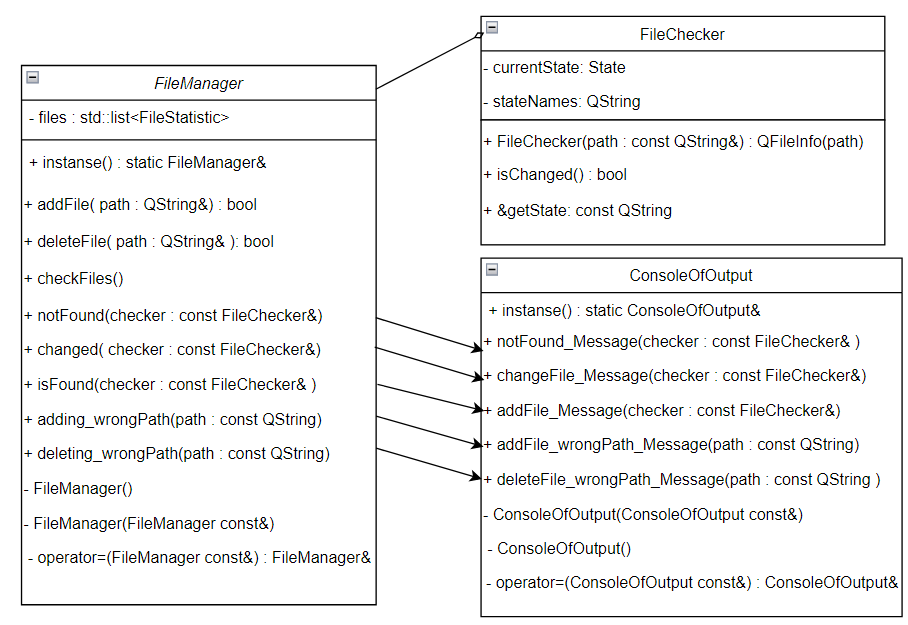
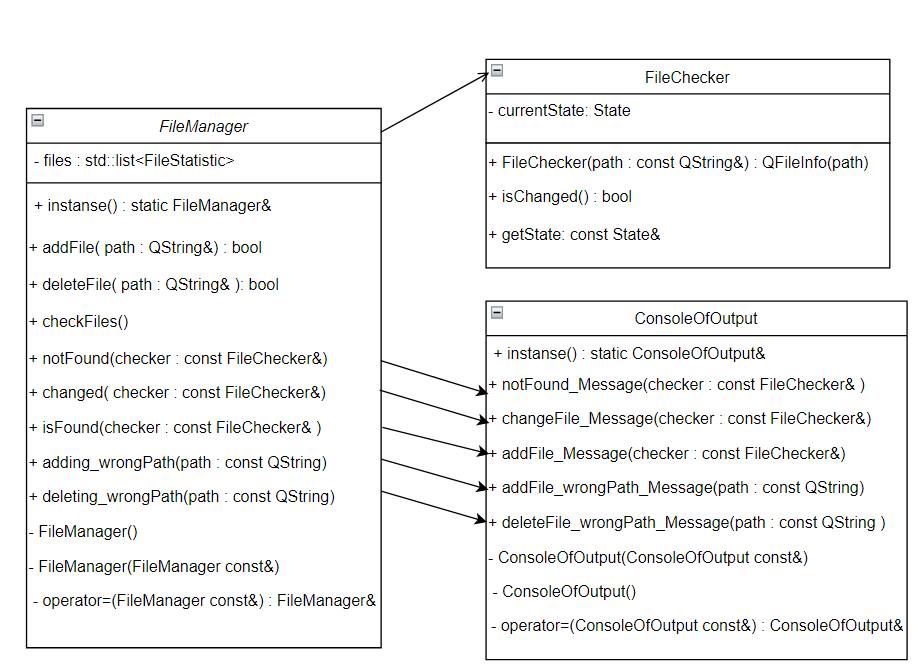
Enum state now public, update UML diagram

Changed region(s): [[0.0, 0.0, 1.0, 1.0]]

diff --git a/FileManager/filemanager.cpp b/FileManager/filemanager.cpp
@@ -2,6 +2,8 @@
 #include <QTime>
 #include <QString>
 #include <QDebug>
+#include "filestatistic.h"
+
 
 FileManager::FileManager()
 {
@@ -48,15 +50,22 @@ void FileManager::checkFiles()
     {
         if(iter->isChanged())
         {
-            if(iter->getState() == "Created")
-                emit isFound(*iter);
 
-            if(iter->getState() == "Changed")
-                emit changed(*iter);
-
-            if(iter->getState() == "Deleted")
-                emit notFound(*iter);
+            switch(iter->getState())
+            {
+                case FileChecker::Created:
+                    emit isFound(*iter);
+                    break;
+                case FileChecker::Changed:
+                    emit changed(*iter);
+                    break;
+                case FileChecker::Deleted:
+                    emit notFound(*iter);
+            }
         }
+
+
+
 
     }
 }

diff --git a/FileManager/filestatistic.h b/FileManager/filestatistic.h
@@ -12,28 +12,25 @@ public:
     FileChecker(const QString& path) : QFileInfo(path) {}
     bool isChanged();
 
-    const QString &getState()
-    {
-        return stateNames[currentState];
-    }
 
-private:
+
     enum State
     {
-
         Created,
         Changed,
         Deleted
     };
 
+    const State &getState()
+    {
+        return currentState;
+    }
+
+private:
+
     State currentState = Deleted;
 
-    QString stateNames[3] =
-    {
-        "Created",
-        "Changed",
-        "Deleted"
-    };
+
 };
 
 

diff --git a/FileManager/main.cpp b/FileManager/main.cpp
@@ -30,7 +30,6 @@ int main(int argc, char *argv[])
     QString dirPath = "C:/QtProjects/WidgetsQT/STD-FileManager/FilesShamonin";
     createDirectory(dirPath);
 
-    system("cls");
 
     QCoreApplication a(argc, argv);
 
